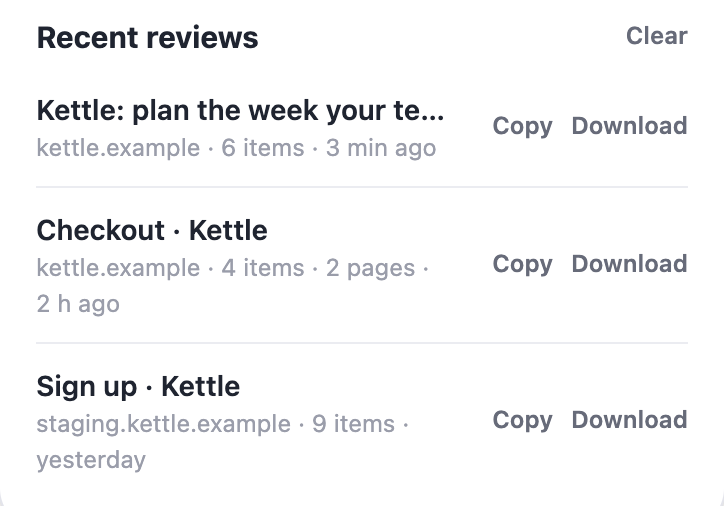
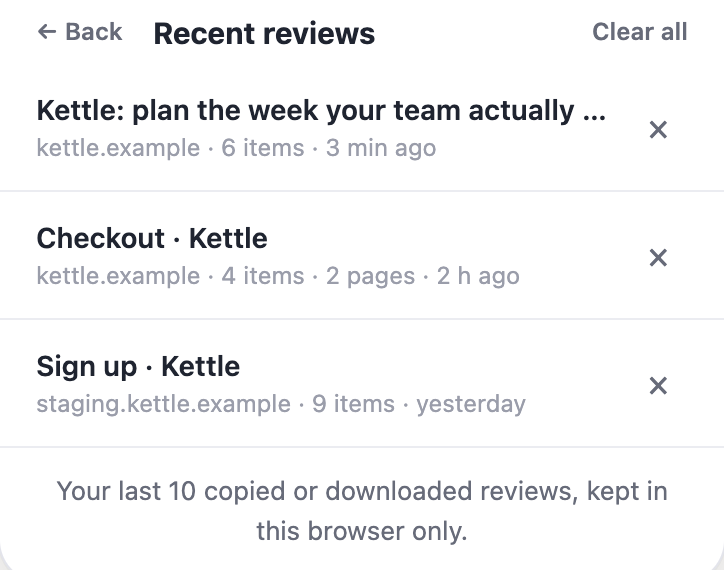
Recent reviews behind a link, open a review in full, delete reviews; clean pin tails
- The empty panel shows a Recent reviews (n) link instead of the list.
- The list opens each review as its full Markdown (text only, no pins) with Copy,
  Download and Delete; rows can be deleted with x, or all cleared. Esc steps back.
- Pin and badge tails are clip-path triangles in the pin's color over a white outline,
  covering the body's border so there is no seam.

diff --git a/extension/content.js b/extension/content.js
@@ -23,7 +23,7 @@
     pending: null, notice: '', noticeType: '', busy: false, confirmingClose: false,
     collapsed: false, dock: 'tr', pos: null, closed: false, frame: 0,
     pages: [], pageId: null, restored: false,
-    sent: '', deliveredSignature: null, recent: [], recentCopied: null, clearingRecent: false, hoverPoint: null, selectedId: null, revealSelected: false,
+    sent: '', deliveredSignature: null, recent: [], view: '', recentOpen: null, recentCopied: null, clearingRecent: false, hoverPoint: null, selectedId: null, revealSelected: false,
   };
   // References never enter the exported review. Keeping them avoids matching a different
   // repeated element when a framework replaces DOM nodes during a review.
@@ -68,9 +68,10 @@
     .itemtext{margin:0;white-space:pre-wrap;overflow-wrap:anywhere;font-size:14px;max-height:120px;overflow:auto}.struck{text-decoration:line-through;text-decoration-color:var(--red);text-decoration-thickness:1.5px;color:var(--pencil)}
     .diff{font-size:14px;margin:2px 0;white-space:pre-wrap;overflow-wrap:anywhere;max-height:96px;overflow:auto}.before{color:var(--faint);text-decoration:line-through;text-decoration-color:var(--red);text-decoration-thickness:1.5px}.after{color:var(--ink)}.after .mark{background:linear-gradient(transparent 58%,var(--green-mark) 58%,var(--green-mark) 92%,transparent 92%);-webkit-box-decoration-break:clone;box-decoration-break:clone}
     .warning{color:#a8322a;font-size:12px;margin:6px 0 0}.itemactions{display:flex;justify-content:flex-end;gap:2px;margin-top:4px}.link{font-size:12px;font-weight:600;background:none;border:0;color:var(--pencil);padding:3px 7px;border-radius:8px}.link:hover{color:var(--cobalt);background:var(--cobalt-soft)}
-    .recent{margin-top:10px}.recent .sectionhead{align-items:center}.recent .link{margin-right:-7px}.link.confirm{color:#a8322a;background:var(--red-soft)}
+    .recentlink{display:block;margin:6px auto 0}.link.confirm{color:#a8322a;background:var(--red-soft)}.recenthead{display:flex;align-items:center;gap:8px;margin:10px 0 4px}.recenthead .back{margin-left:-7px}.recenthead .title{flex:1;font:700 15px/1.2 var(--sans)}.recenthead .link:last-child{margin-right:-7px}
+    .recentnote{margin:12px 0 0;text-align:center}.recentitem .smallbutton{flex:none}.recentname{font:700 16px/1.3 var(--sans);margin:12px 0 2px;overflow-wrap:anywhere}.recent .recentactions{display:flex;gap:8px;margin:12px 0}.reviewtext{margin:0;padding:12px;background:var(--wash);border-radius:12px;font:12px/1.55 ui-monospace,SFMono-Regular,Menlo,monospace;white-space:pre-wrap;overflow-wrap:anywhere;max-height:calc(100vh - 290px);overflow:auto}
     .recentitem{display:flex;align-items:center;gap:10px;padding:10px 0}.recentinfo{flex:1;min-width:0}.recentinfo p{margin:0;overflow:hidden;text-overflow:ellipsis;white-space:nowrap}.recentinfo .recentmeta{white-space:normal}
-    .recenttitle{font-size:14px;font-weight:600}.recentmeta{font-size:12px;color:var(--faint)}.recentactions{display:flex;gap:2px;flex:none}
+    .recenttitle{font-size:14px;font-weight:600}.recentmeta{font-size:12px;color:var(--faint)}
     .pagehead{margin:14px 0 2px;font-size:12px;font-weight:600;color:var(--pencil);overflow:hidden;text-overflow:ellipsis;white-space:nowrap}.item.archived .itemtext{color:var(--pencil)}
     .item.reveal{cursor:pointer;margin:0 -18px;padding:12px 18px}.item.reveal:hover{background:#fafbfc}.item.reveal:focus-visible{outline-offset:-2px}
     .item.selected{background:var(--marker-soft)}.item.selected:hover{background:var(--marker-soft)}.item.pulse{animation:pulse 1s ease-out}@keyframes pulse{from{background:var(--marker)}to{background:var(--marker-soft)}}
@@ -78,9 +79,10 @@
     .closebox{padding:14px;background:var(--red-soft);border-radius:16px;margin:8px 0 12px;font-size:13px}.closebox p{margin:0}
     .pill{pointer-events:auto;position:fixed;right:18px;top:18px;display:flex;align-items:center;gap:8px;border:1px solid #e3e4eb;border-radius:999px;padding:7px 9px 7px 13px;background:var(--paper);box-shadow:0 1px 0 #1f24300a,0 14px 34px -14px #1f243066;cursor:grab;touch-action:none;user-select:none;-webkit-user-select:none}.pill .brand{font-size:23px;flex:none}.pill .count{min-width:22px;height:22px;padding:0 6px;border-radius:999px;background:var(--cobalt);color:white;font:700 12px/22px var(--sans);text-align:center}
     .pin{pointer-events:auto;position:fixed;min-width:32px;height:24px;padding:0 8px;display:grid;place-items:center;border:2px solid white;border-radius:8px 9px 7px 9px/9px 7px 9px 8px;transform:translate(-50%,calc(-100% - 9px)) rotate(-3deg);transform-origin:50% calc(100% + 9px);box-shadow:0 3px 10px #1f243055;background:var(--cobalt);color:white;font:700 12px/1 var(--sans);font-variant-numeric:tabular-nums}
-    .pin::after,.badge.bubble::after{content:'';position:absolute;left:50%;bottom:-7px;width:9px;height:9px;background:inherit;border-right:2px solid white;border-bottom:2px solid white;border-bottom-right-radius:3px;transform:translateX(-50%) rotate(45deg)}
+    /* The tail: a white triangle (the outline) under one in the pin's color, which also covers the body's bottom border so the two join cleanly. */
+    .pin::before,.pin::after,.badge.bubble::after{content:'';position:absolute;left:50%;top:calc(100% - 1px);transform:translateX(-50%);clip-path:polygon(0 0,100% 0,50% 100%)}.pin::before{width:17px;height:12.5px;background:white}.pin::after{width:12px;height:9px;background:inherit}
     .pin:hover{filter:brightness(.92)}.pin.lost{background:#8d8f9a}.pin.pending{background:var(--marker);color:var(--ink)}.pin.selected{z-index:1;box-shadow:0 0 0 4px var(--marker),0 3px 12px #1f243066}
-    .badge.bubble{position:relative;min-width:27px;height:20px;padding:0 7px;margin-bottom:4px;border-radius:6px 7px 6px 7px/7px 6px 7px 6px;transform:rotate(-3deg)}.badge.bubble::after{bottom:-4px;width:7px;height:7px;border:0}
+    .badge.bubble{position:relative;min-width:27px;height:20px;padding:0 7px;margin-bottom:4px;border-radius:6px 7px 6px 7px/7px 6px 7px 6px;transform:rotate(-3deg)}.badge.bubble::after{width:9px;height:5.5px;background:inherit}
     .highlight,.hover{pointer-events:none;position:fixed;border:2px dashed var(--cobalt);border-radius:6px;background:#2f4be00a;display:none}.highlight{border-style:solid;background:#ffe36e33;border-color:#e8c534}
     .hovertag{position:absolute;left:-2px;bottom:100%;margin-bottom:4px;background:var(--cobalt);color:white;font:600 11px/1.6 var(--sans);padding:1px 7px;border-radius:999px;white-space:nowrap;max-width:260px;overflow:hidden;text-overflow:ellipsis}.hover.inside .hovertag{bottom:auto;top:0;margin:4px}
     .hover.danger{border-color:var(--red);background:#d9443a12}.hover.danger .hovertag{background:var(--red)}
@@ -236,6 +238,7 @@
     if (state.busy) return;
     cancelPending(false);
     state.mode = mode;
+    state.view = ''; state.recentOpen = null;
     state.confirmingClose = false;
     state.notice = '';
     highlight.style.display = 'none';
@@ -265,56 +268,60 @@
       actions.append(button('Keep reviewing', () => { state.confirmingClose = false; render(); }), button('Discard & close', close, 'button danger'));
       box.append(actions); body.append(box);
     }
-    // Browsing is the default. Tools toggle on; the active one shows Esc, which turns it off.
-    const modes = element('div', 'modes');
-    modes.setAttribute('role', 'group'); modes.setAttribute('aria-label', 'Tools');
-    for (const [key, label, shortcut, name] of TOOLS) {
-      const active = state.mode === key;
-      const b = button('', () => setMode(active ? 'browse' : key), `mode${active ? ' active' : ''}`);
-      b.append(element('span', '', label), element('kbd', 'kbd', active ? 'Esc' : shortcut));
-      b.setAttribute('aria-label', name); b.setAttribute('aria-pressed', String(active));
-      b.setAttribute('aria-keyshortcuts', active ? 'Escape' : shortcut.toLowerCase());
-      b.title = active ? `Turn off ${label} (Esc)` : `${label} (${shortcut})`;
-      modes.append(b);
-    }
-    body.append(modes);
-    if (state.mode === 'pin') {
-      const row = element('div', 'anchor');
-      row.setAttribute('role', 'group'); row.setAttribute('aria-label', 'Pin position');
-      for (const [value, text] of [['element', 'Pin to element'], ['page', 'Pin to page']]) {
-        const b = button(text, () => { state.anchorKind = value; render(); }, `anchoropt${state.anchorKind === value ? ' active' : ''}`);
-        b.setAttribute('aria-pressed', String(state.anchorKind === value)); row.append(b);
+    // Recent reviews replace the review body while open; Back or Esc returns to it.
+    if (state.view === 'recent') body.append(state.recentOpen ? renderRecentReview(state.recentOpen) : renderRecentList());
+    else {
+      // Browsing is the default. Tools toggle on; the active one shows Esc, which turns it off.
+      const modes = element('div', 'modes');
+      modes.setAttribute('role', 'group'); modes.setAttribute('aria-label', 'Tools');
+      for (const [key, label, shortcut, name] of TOOLS) {
+        const active = state.mode === key;
+        const b = button('', () => setMode(active ? 'browse' : key), `mode${active ? ' active' : ''}`);
+        b.append(element('span', '', label), element('kbd', 'kbd', active ? 'Esc' : shortcut));
+        b.setAttribute('aria-label', name); b.setAttribute('aria-pressed', String(active));
+        b.setAttribute('aria-keyshortcuts', active ? 'Escape' : shortcut.toLowerCase());
+        b.title = active ? `Turn off ${label} (Esc)` : `${label} (${shortcut})`;
+        modes.append(b);
       }
-      body.append(row);
-    }
-    if (state.mode !== 'browse') body.append(element('p', 'instructions', modeLabel()));
-    if (state.notice) { const notice = element('div', `notice ${state.noticeType}`, state.notice); notice.setAttribute('role', 'status'); body.append(notice); }
-    if (state.pending) body.append(renderEditor());
-    const heading = element('div', 'sectionhead');
-    const counts = [[state.comments.length, 'comment', 'comments'], [state.edits.length, 'edit', 'edits'], [state.removals.length, 'removal', 'removals']].filter(([n], i) => n || i < 2).map(([n, one, many]) => `${n} ${n === 1 ? one : many}`);
-    heading.append(element('span', 'title', 'This review'), element('span', 'count', counts.join(', ')));
-    body.append(heading);
-    if (!itemCount()) body.append(element('div', 'empty', 'Nothing marked up yet. Pick a tool and click the page.'));
-    if (!itemCount() && state.recent.length) body.append(renderRecent());
-    const multi = state.pages.length > 1;
-    for (const page of [currentPage(), ...state.pages.filter(page => page.id !== state.pageId)].filter(Boolean)) {
-      const here = page.id === state.pageId;
-      const comments = state.comments.map((comment, index) => [comment, index]).filter(([comment]) => onPage(comment, page.id));
-      const edits = state.edits.filter(edit => onPage(edit, page.id)), removals = state.removals.filter(removal => onPage(removal, page.id));
-      if (multi && (here || comments.length + edits.length + removals.length)) body.append(element('div', 'pagehead', `${page.id} · ${pagePath(page.url)}${here ? ' (this page)' : ''}`));
-      if (here) {
-        comments.forEach(([comment, index]) => body.append(renderComment(comment, index)));
-        edits.forEach(edit => body.append(renderEdit(edit)));
-        removals.forEach(removal => body.append(renderRemoval(removal)));
-      } else {
-        comments.forEach(([comment, index]) => body.append(renderArchived(comment, String(index + 1), comment.text, () => removeComment(comment))));
-        edits.forEach(edit => body.append(renderArchived(edit, 'Aa', `${edit.before} → ${edit.after}`, () => dropItem('edits', edit))));
-        removals.forEach(removal => body.append(renderArchived(removal, '⊖', `Remove ${removal.label}`, () => dropItem('removals', removal))));
+      body.append(modes);
+      if (state.mode === 'pin') {
+        const row = element('div', 'anchor');
+        row.setAttribute('role', 'group'); row.setAttribute('aria-label', 'Pin position');
+        for (const [value, text] of [['element', 'Pin to element'], ['page', 'Pin to page']]) {
+          const b = button(text, () => { state.anchorKind = value; render(); }, `anchoropt${state.anchorKind === value ? ' active' : ''}`);
+          b.setAttribute('aria-pressed', String(state.anchorKind === value)); row.append(b);
+        }
+        body.append(row);
+      }
+      if (state.mode !== 'browse') body.append(element('p', 'instructions', modeLabel()));
+      if (state.notice) { const notice = element('div', `notice ${state.noticeType}`, state.notice); notice.setAttribute('role', 'status'); body.append(notice); }
+      if (state.pending) body.append(renderEditor());
+      const heading = element('div', 'sectionhead');
+      const counts = [[state.comments.length, 'comment', 'comments'], [state.edits.length, 'edit', 'edits'], [state.removals.length, 'removal', 'removals']].filter(([n], i) => n || i < 2).map(([n, one, many]) => `${n} ${n === 1 ? one : many}`);
+      heading.append(element('span', 'title', 'This review'), element('span', 'count', counts.join(', ')));
+      body.append(heading);
+      if (!itemCount()) body.append(element('div', 'empty', 'Nothing marked up yet. Pick a tool and click the page.'));
+      if (!itemCount() && state.recent.length) body.append(recentLink());
+      const multi = state.pages.length > 1;
+      for (const page of [currentPage(), ...state.pages.filter(page => page.id !== state.pageId)].filter(Boolean)) {
+        const here = page.id === state.pageId;
+        const comments = state.comments.map((comment, index) => [comment, index]).filter(([comment]) => onPage(comment, page.id));
+        const edits = state.edits.filter(edit => onPage(edit, page.id)), removals = state.removals.filter(removal => onPage(removal, page.id));
+        if (multi && (here || comments.length + edits.length + removals.length)) body.append(element('div', 'pagehead', `${page.id} · ${pagePath(page.url)}${here ? ' (this page)' : ''}`));
+        if (here) {
+          comments.forEach(([comment, index]) => body.append(renderComment(comment, index)));
+          edits.forEach(edit => body.append(renderEdit(edit)));
+          removals.forEach(removal => body.append(renderRemoval(removal)));
+        } else {
+          comments.forEach(([comment, index]) => body.append(renderArchived(comment, String(index + 1), comment.text, () => removeComment(comment))));
+          edits.forEach(edit => body.append(renderArchived(edit, 'Aa', `${edit.before} → ${edit.after}`, () => dropItem('edits', edit))));
+          removals.forEach(removal => body.append(renderArchived(removal, '⊖', `Remove ${removal.label}`, () => dropItem('removals', removal))));
+        }
       }
     }
     // Nothing to send yet: no Copy/Download until there is feedback.
     const footer = element('footer', 'footer');
-    footer.hidden = !itemCount();
+    footer.hidden = !itemCount() || state.view === 'recent';
     // Copy is the quick path (paste into your agent, an issue or a PR); the file is the alternative.
     const finishing = delivered();
     const copy = button(state.sent === 'copied' ? '✓ Copied' : finishing ? 'Copy' : 'Copy Markdown', copyMarkdown, 'button primary done');
@@ -406,32 +413,87 @@
     return group;
   }
   // Reviews you copied or downloaded lately, newest first, so one closed with Done isn't lost.
-  function renderRecent() {
+  // A link under the empty state opens the list; a review opens as its full Markdown (no pins).
+  function recentLink() {
+    const link = button(`Recent reviews (${state.recent.length})`, () => openRecent(), 'link recentlink');
+    return link;
+  }
+  function recentHost(review) { try { return new URL(review.url).hostname; } catch (_) { return ''; } }
+  function recentMeta(review) {
+    return [recentHost(review), `${review.items}\u00a0${review.items === 1 ? 'item' : 'items'}`, review.pages > 1 ? `${review.pages}\u00a0pages` : '', ago(review.savedAt)].filter(Boolean).join(' · ');
+  }
+  function recentName(review) { return review.title || recentHost(review) || 'Untitled page'; }
+  function recentHead(backLabel, back, title) {
+    const head = element('div', 'recenthead');
+    const backButton = button(`← ${backLabel}`, back, 'link back');
+    head.append(backButton, element('span', 'title', title));
+    return head;
+  }
+  function renderRecentList() {
     const box = element('section', 'recent');
     box.setAttribute('aria-label', 'Recent reviews');
-    const head = element('div', 'sectionhead');
-    const clear = button(state.clearingRecent ? 'Clear all?' : 'Clear', clearRecent, `link${state.clearingRecent ? ' confirm' : ''}`);
-    clear.setAttribute('aria-label', state.clearingRecent ? 'Confirm clearing recent reviews' : 'Clear recent reviews');
-    head.append(element('span', 'title', 'Recent reviews'), clear);
+    const head = recentHead('Back', closeRecent, 'Recent reviews');
+    if (state.recent.length) {
+      const clear = button(state.clearingRecent ? 'Clear all?' : 'Clear all', clearRecent, `link${state.clearingRecent ? ' confirm' : ''}`);
+      clear.setAttribute('aria-label', state.clearingRecent ? 'Confirm clearing recent reviews' : 'Clear recent reviews');
+      head.append(clear);
+    }
     box.append(head);
+    if (!state.recent.length) box.append(element('div', 'empty', 'No recent reviews.'));
     for (const review of state.recent) {
       const row = element('div', 'item recentitem');
+      revealOnClick(row, () => openRecent(review), `Open ${recentName(review)}`);
       const info = element('div', 'recentinfo');
-      let host = '';
-      try { host = new URL(review.url).hostname; } catch (_) { /* Shown without a host. */ }
-      info.append(element('p', 'recenttitle', review.title || host || 'Untitled page'));
-      const meta = [host, `${review.items} ${review.items === 1 ? 'item' : 'items'}`, review.pages > 1 ? `${review.pages} pages` : '', ago(review.savedAt)].filter(Boolean).join(' · ');
-      info.append(element('p', 'recentmeta', meta));
-      const actions = element('div', 'recentactions');
-      const copy = button(state.recentCopied === review.id ? '✓ Copied' : 'Copy', () => copyRecent(review), 'link');
-      copy.setAttribute('aria-label', `Copy Markdown for ${review.title || host}`);
-      const save = button('Download', () => downloadRecent(review), 'link');
-      save.setAttribute('aria-label', `Download ${review.title || host}`);
-      actions.append(copy, save);
-      row.append(info, actions);
+      info.append(element('p', 'recenttitle', recentName(review)), element('p', 'recentmeta', recentMeta(review)));
+      const remove = button('×', () => deleteRecent(review), 'smallbutton', `Delete ${recentName(review)}`);
+      row.append(info, remove);
       box.append(row);
     }
+    box.append(element('p', 'muted recentnote', 'Your last 10 copied or downloaded reviews, kept in this browser only.'));
     return box;
+  }
+  function renderRecentReview(open) {
+    const review = state.recent.find(other => other.id === open.id);
+    const box = element('section', 'recent');
+    box.setAttribute('aria-label', 'Recent review');
+    box.append(recentHead('Recent reviews', () => openRecent(), ''));
+    if (!review) { box.append(element('div', 'empty', 'That review is no longer saved.')); return box; }
+    box.append(element('h3', 'recentname', recentName(review)), element('p', 'recentmeta', recentMeta(review)));
+    const actions = element('div', 'recentactions');
+    const copy = button(state.recentCopied === review.id ? '✓ Copied' : 'Copy Markdown', () => copyRecent(review), 'button primary');
+    copy.setAttribute('aria-label', 'Copy this review');
+    const save = button('Download', () => downloadRecent(review), 'button');
+    save.setAttribute('aria-label', 'Download this review');
+    actions.append(copy, save, button('Delete', () => deleteRecent(review), 'button danger', 'Delete this review'));
+    box.append(actions);
+    // Shown as text only: the Markdown quotes page content and is never rendered as HTML.
+    const text = element('pre', 'reviewtext', open.markdown ?? 'Loading…');
+    text.tabIndex = 0;
+    box.append(text);
+    return box;
+  }
+  async function openRecent(review) {
+    cancelPending(false);
+    state.mode = 'browse'; highlight.style.display = 'none';
+    state.view = 'recent'; state.clearingRecent = false;
+    state.recentOpen = review ? { id: review.id, markdown: null } : null;
+    render();
+    if (!review) return;
+    try {
+      const result = await chrome.runtime.sendMessage({ type: 'PAGE_NOTES_RECENT', action: 'markdown', id: review.id });
+      if (state.recentOpen?.id === review.id) { state.recentOpen.markdown = result?.ok ? result.markdown : (result?.error || 'That review could not be loaded.'); render(); }
+    } catch (_) { /* Stays on Loading. */ }
+  }
+  function closeRecent() { state.view = ''; state.recentOpen = null; state.clearingRecent = false; render(); }
+  async function deleteRecent(review) {
+    try {
+      const result = await chrome.runtime.sendMessage({ type: 'PAGE_NOTES_RECENT', action: 'delete', id: review.id });
+      if (!result?.ok) throw new Error('That review could not be deleted.');
+      state.recent = state.recent.filter(other => other.id !== review.id);
+      announce('Review deleted.');
+      if (state.recentOpen?.id === review.id) state.recentOpen = null;
+      render();
+    } catch (error) { tell(error.message, true); }
   }
   function ago(iso) {
     const minutes = Math.round((Date.now() - new Date(iso).getTime()) / 60000);
@@ -478,7 +540,7 @@
       return;
     }
     state.clearingRecent = false;
-    try { await chrome.runtime.sendMessage({ type: 'PAGE_NOTES_RECENT', action: 'clear' }); state.recent = []; } catch (_) { /* Keep showing them. */ }
+    try { await chrome.runtime.sendMessage({ type: 'PAGE_NOTES_RECENT', action: 'clear' }); state.recent = []; state.recentOpen = null; } catch (_) { /* Keep showing them. */ }
     render();
   }
   function renderComment(comment, index) {
@@ -978,6 +1040,11 @@
   }
   function onKey(event) {
     if (!event.isTrusted) return;
+    if (event.key === 'Escape' && state.view && !state.busy && !state.pending && !typingIn(event)) {
+      event.preventDefault(); event.stopImmediatePropagation();
+      if (state.recentOpen) openRecent(); else closeRecent();
+      return;
+    }
     if (event.key === 'Escape' && !state.busy && (state.pending || state.mode !== 'browse' || state.confirmingClose)) {
       event.preventDefault(); event.stopImmediatePropagation();
       // First Escape drops the edit in progress; the next one returns to browsing.

diff --git a/site/index.html b/site/index.html
@@ -220,7 +220,7 @@
           <p class="hand">paste it anywhere</p>
         </article>
         <article class="card s3">
-          <div class="art"><img src="assets/recent.png" width="362" alt="The panel's Recent reviews list: three earlier reviews with Copy and Download buttons, and Clear." loading="lazy"></div>
+          <div class="art"><img src="assets/recent.png" width="362" alt="The panel's Recent reviews list: three earlier reviews, each with a delete button, and Clear all." loading="lazy"></div>
           <h3>Nothing leaves your browser</h3>
           <p>No account and no server. Your last 10 reviews stay in this browser so you can grab one again, and form fields are never read.</p>
           <p class="hand">your review, your machine</p>

diff --git a/extension/background.js b/extension/background.js
@@ -45,6 +45,7 @@ async function handleRecent(message) {
   const list = await recentList();
   if (message.action === 'list') return {ok: true, reviews: list.map(({markdown, ...meta}) => meta)};
   if (message.action === 'clear') { await chrome.storage.local.remove(RECENT_KEY); return {ok: true}; }
+  if (message.action === 'delete') { await chrome.storage.local.set({[RECENT_KEY]: list.filter(other => other.id !== message.id)}); return {ok: true}; }
   const entry = list.find(other => other.id === message.id);
   if (!entry) return {ok: false, error: 'That review is no longer saved.'};
   if (message.action === 'markdown') return {ok: true, markdown: entry.markdown};

diff --git a/docs/architecture.md b/docs/architecture.md
@@ -6,7 +6,7 @@ Manifest V3, vanilla JavaScript, no runtime dependencies. Capture runs in Chrome
 - `content.js`: closed Shadow DOM panel, pins, in-place text editing, review ledger and session lifecycle. In-place editing marks the text's parent `contenteditable="plaintext-only"` only while editing, cancels every `beforeinput` and applies the change to that single text node itself (IME composition, which cannot be canceled, is read back), and stops key/input/clipboard events from reaching site listeners. The original attribute is restored on save or cancel. Captures a baseline before mounting its own UI. Page mutations are not treated as user changes.
 - `export.js`: validates the review model and renders the Markdown digest (a pure function, unit-tested with synthetic models), plus the download filename.
 - `fonts/`: Caveat (SIL Open Font License, `fonts/OFL.txt`) for the overlay's handwritten headings. The service worker reads it from the extension package and sends the bytes to the content script, which registers it with `FontFace`. No network request and no `web_accessible_resources`, so pages cannot probe for the extension's files.
-- `background.js`: also keeps each tab's review draft in `chrome.storage.session` (in memory, cleared on browser exit, not readable by pages; removed when the tab closes or the review is discarded) keeps the last 10 copied or downloaded reviews as rendered Markdown in `chrome.storage.local` (newest first, one entry per review, served only to our top-frame script; Clear removes them), and re-injects the review after a load in that tab when Chrome still grants access. Handles the toolbar click and the `start-review` keyboard command: both inject the review into the active HTTP(S) tab (after checking it's HTML with no open modal dialog) or put a short reason on the toolbar button. There is no popup.
+- `background.js`: also keeps each tab's review draft in `chrome.storage.session` (in memory, cleared on browser exit, not readable by pages; removed when the tab closes or the review is discarded) keeps the last 10 copied or downloaded reviews as rendered Markdown in `chrome.storage.local` (newest first, one entry per review, served only to our top-frame script; each can be opened as text, deleted, or all cleared), and re-injects the review after a load in that tab when Chrome still grants access. Handles the toolbar click and the `start-review` keyboard command: both inject the review into the active HTTP(S) tab (after checking it's HTML with no open modal dialog) or put a short reason on the toolbar button. There is no popup.
 - `background.js`: destination adapter. Current `file` destination renders the digest and asks Chrome downloads to save it as Markdown. No arbitrary URL destination, no external message listener.
 
 ## Delivery boundary

diff --git a/README.md b/README.md
@@ -52,7 +52,7 @@ Browsing is the default. Turn a tool on, use it, and turn it off with the same k
 - **Severity:** every item has **Must fix** (red), **Suggested** (orange, the default), **Nit** (yellow) and **Note** (blue, no change needed). Pins take the color; the review lists urgent items first and notes last.
 - **The panel:** click a pin to highlight its note, or click a note to scroll to its pin. Drag the header (or the minimized pill) anywhere; the corner button snaps it back to a corner.
 - **Done** appears after you copy or download, and closes the review in one click. If you change anything afterwards, it hides until you copy or download again, so unsent feedback is never thrown away.
-- **Recent reviews:** the panel lists your last 10 copied or downloaded reviews whenever the current review is empty. Copy or download any of them again, even after Done or a browser restart.
+- **Recent reviews:** when the current review is empty, a **Recent reviews** link opens your last 10 copied or downloaded reviews, even after Done or a browser restart. Open one to read its full Markdown and copy or download it again (pins don't come back), or delete reviews one at a time or all at once.
 - **Reloads and navigation:** the review lives with its tab. Refresh or click through the site and your pins come back; each page you visit becomes P1, P2… in the same review. On a different site, click the icon to continue it. Chrome's session storage keeps the draft until you close the tab, discard the review or quit the browser.
 
 ## What your agent gets
@@ -75,7 +75,7 @@ Text edits give the exact original and replacement (plus formatting and the elem
 
 ## Privacy
 
-Nothing is sent anywhere. There's no account and no server. A review in progress stays with its tab. Your last 10 copied or downloaded reviews are kept as Markdown in this browser profile so you can get them back. They are never synced or uploaded, and **Clear** in the panel deletes them. The extension only runs on a page after you click its icon or press the shortcut, and it never reads form fields. The Markdown can still quote visible text near an item, plus the page URL with query strings and fragments removed, so read it before sharing.
+Nothing is sent anywhere. There's no account and no server. A review in progress stays with its tab. Your last 10 copied or downloaded reviews are kept as Markdown in this browser profile so you can get them back. They are never synced or uploaded, and you can delete them one by one or all at once. The extension only runs on a page after you click its icon or press the shortcut, and it never reads form fields. The Markdown can still quote visible text near an item, plus the page URL with query strings and fragments removed, so read it before sharing.
 
 ## Limits
 

diff --git a/site/assets/sample-review.md b/site/assets/sample-review.md
@@ -1,8 +1,8 @@
 # Review: Kettle: plan the week your team actually has
 
 - Page: https://kettle.example/pricing
-- Review: r-20261025-656a · Page Notes 0.2.0 · digest v1
-- Started: 2026-10-25T13:09:18-04:00 · Exported: 2026-10-25T13:09:21-04:00 (0 min)
+- Review: r-20261025-dd98 · Page Notes 0.2.0 · digest v1
+- Started: 2026-10-25T13:12:57-04:00 · Exported: 2026-10-25T13:13:00-04:00 (0 min)
 - Environment: Chromium 141 · macOS · 1440×900 @2x · light
 - Summary: 3 comments, 2 text edits, 1 removal
 - Severity: 1 must fix, 4 suggested, 0 nits, 1 note
